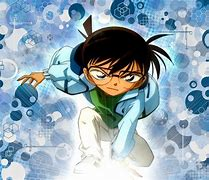
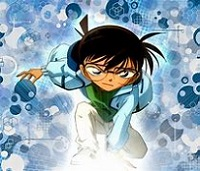
done

diff --git a/index.html b/index.html
@@ -43,7 +43,7 @@
   </div>
   <div class="carousel-inner">
     <div class="carousel-item active">
-      <img src="img/conan.1.jpg" class="d-block w-100" alt="mountains">
+      <img src="img/conan.8.jpg" class="d-block w-100" alt="mountains">
     </div>
     <div class="carousel-item">
       <img src="img/conan.2.jpg" class="d-block w-100" alt="red">
